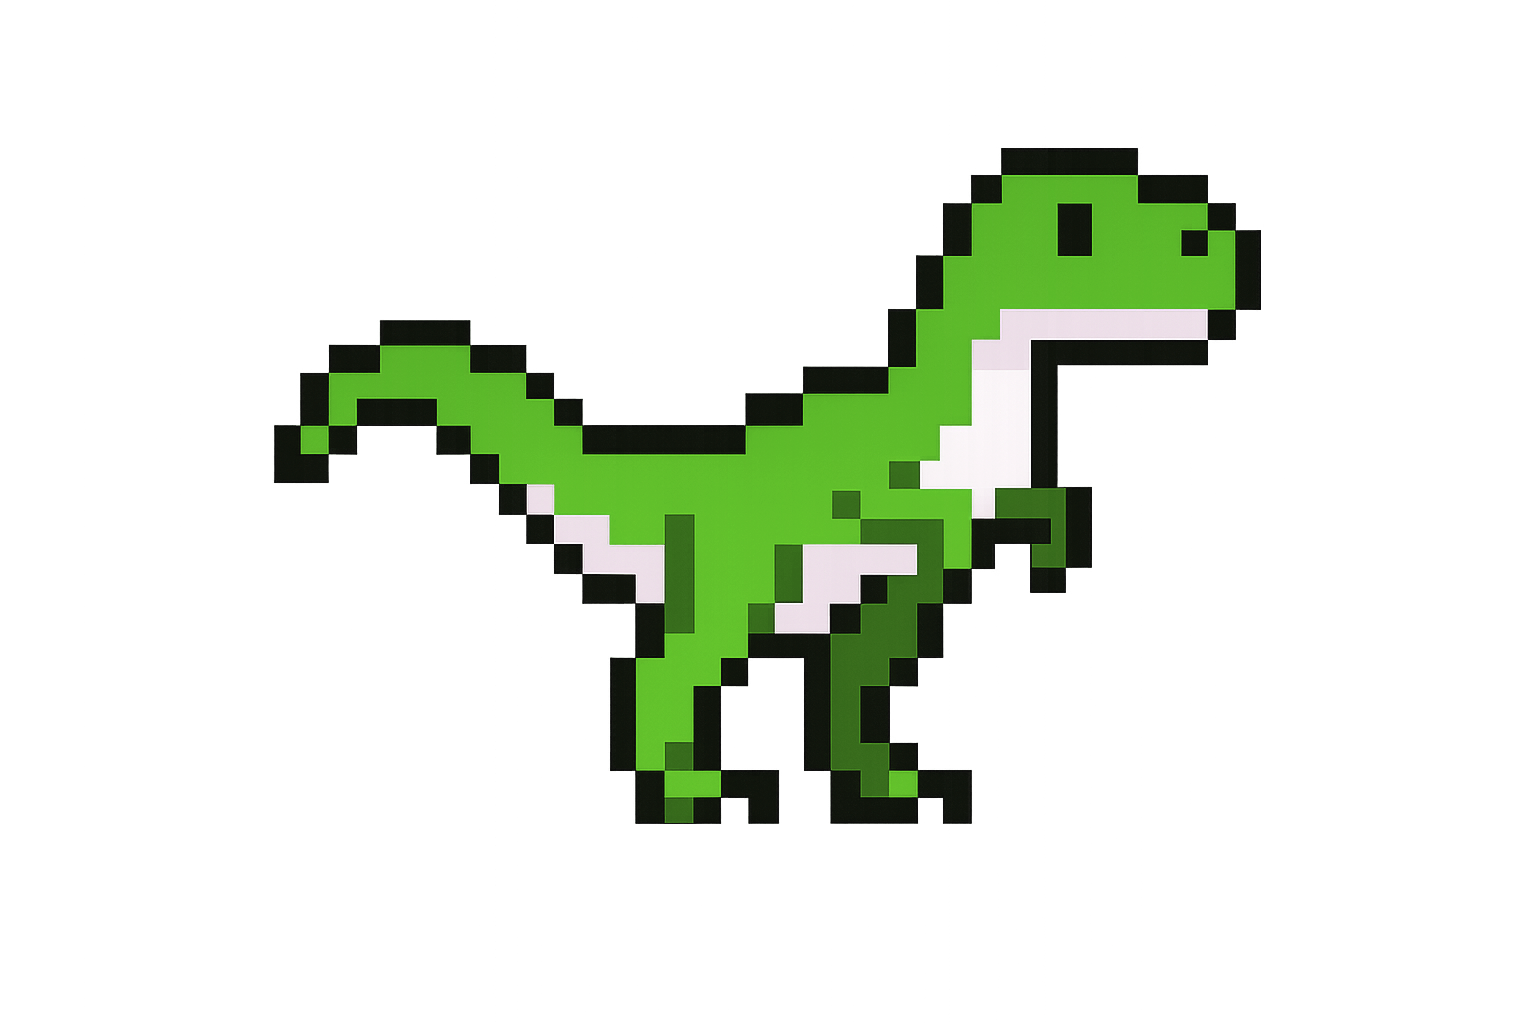
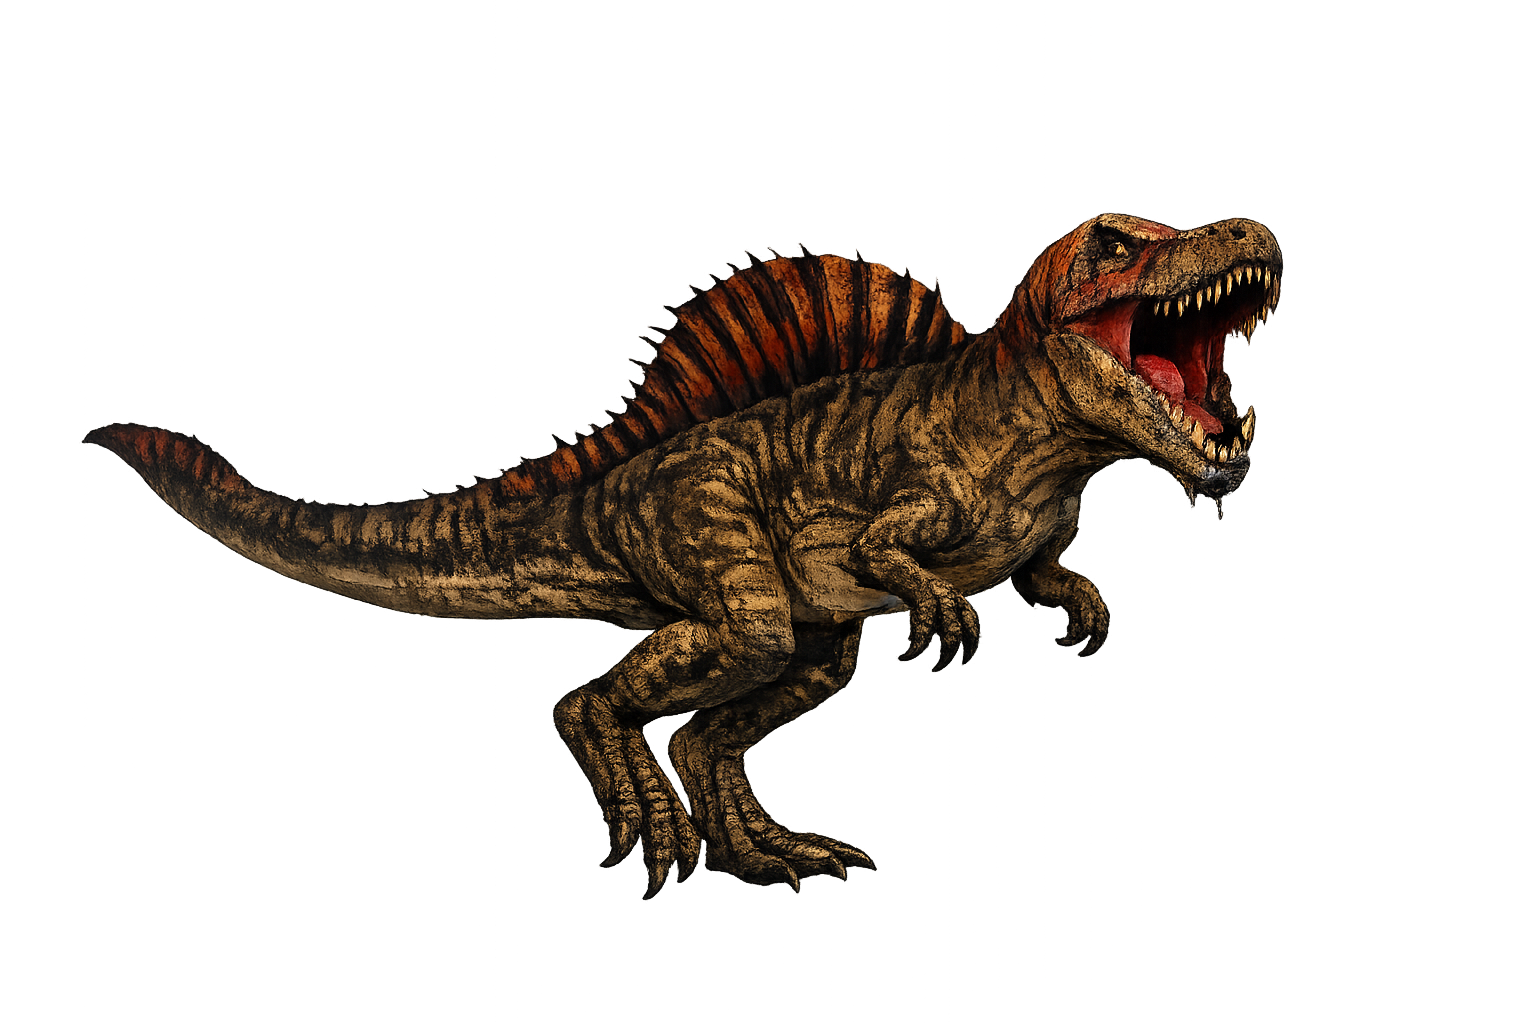
save

Changed region(s): [[0.0625, 0.125, 0.8438, 0.875]]

diff --git a/index.js b/index.js
@@ -19,12 +19,8 @@ mudPatchImg = loadImage('assets/images/mudPatch.png');
 electricFenceImg = loadImage('assets/images/electricFence.png');
 rockImg = loadImage('assets/images/rock.png');
 jeepImg=loadImage('assets/images/pixelAbandonedJeep.png');
-
-// these obstacles haven't been passed yet
-electricFenceSprite.passed = false;
-rockSprite.passed = false;
-jeepSprite.passed = false;
-
+ddinoImg=loadImage('assets/images/deaddino.png');
+finImg = loadImage('assets/images/Finishgate.png');
 }
 
 
@@ -34,7 +30,7 @@ function setup() {
     console.log("setup:");
     createCanvas(windowWidth -10,windowHeight -10);
     world.gravity.y = 10;
-    ground = new Sprite(2000, height - 50, 4000, 200, 'static'); // 'static' ground does not move due to gravity
+    ground = new Sprite(2000, height - 50, 15000, 200, 'static'); // 'static' ground does not move due to gravity
     ground.color = '#839b5d';
 
 
@@ -42,16 +38,18 @@ function setup() {
     // Dynamics: the sprite uses full physics (affected by gravity, can move, fall, collide with objects)
     dinoOneSprite = new Sprite(100, height - 150, 200, 100);
     dinoOneSprite.image = dinoOneImage;
-    dinoOneSprite.scale = 0.2;
-    dinoOneSprite.vel.x = 1; // slower speed
+    dinoOneSprite.scale = 0.3;
+    dinoOneSprite.vel.x = 2; // slower speed
     dinoOneSprite.collider = 'dynamic';
+    dinoOneSprite.rotationLock = true; // prevents spinning
    
-    // creating personOneSprite sprite and attaching image
-    personOneSprite = new Sprite(300, height - 150, 200, 100);
+    // creating personOneSprite sprite and attaching images
+    personOneSprite = new Sprite(500, height - 150, 60, 100);
     personOneSprite.image = personOneFrontImg;
     personOneSprite.scale = 0.2;
-    personOneSprite.vel.x = 4; // faster than dino
+    personOneSprite.vel.x = 5; // faster than dino
     personOneSprite.collider = 'dynamic';
+    personOneSprite.rotationLock = true; // prevents spinning
    
     //boolean variable keeping track of wehter the player has moved or not 
     // so the dinosaur does not start running until the player moves 
@@ -61,38 +59,60 @@ function setup() {
     obstacleGroup = new Group();
 
     //creating electricFenceSprite and attaching image
-    electricFenceSprite = new Sprite(900, height - 150, 200, 100);
+    electricFenceSprite = new Sprite(1500, height - 150, 200, 100);
     electricFenceSprite.image = electricFenceImg;
-    electricFenceSprite.scale = 0.2;
+    electricFenceSprite.scale = 0.25;
     electricFenceSprite.collider = 'static';
-    obstacleGroup.add(electricFenceSprite); 
+    obstacleGroup.add(electricFenceSprite);
+    electricFenceSprite.passed = false; 
  
     //creating rockSprite and attaching image
-    rockSprite = new Sprite(1500, height - 150, 200, 100);
+    rockSprite = new Sprite(2500, height - 150, 200, 100);
     rockSprite.image = rockImg;
-    rockSprite.scale = 0.2;
+    rockSprite.scale = 0.25;
     rockSprite.collider = 'static';
     obstacleGroup.add(rockSprite);
+    rockSprite.passed = false;
    
-    /*//creating the mudPatchSprite and attaching image
-    mudPatchSprite = new Sprite(2000, height - 150, 100, 100);
+    //creating the mudPatchSprite and attaching image
+    mudPatchSprite = new Sprite(3500, height - 100, 100, 100);
     mudPatchSprite.image = mudPatchImg;
-    mudPatchSprite.scale = 0.2;
+    mudPatchSprite.scale = 0.25;
     mudPatchSprite.collider = 'static'; // so sprite doesn't collide with ground
-    obstacleGroup.add(mudPatchSprite);   */
+    obstacleGroup.add(mudPatchSprite);   
+    mudPatchSprite.passed = false;
 
     //creating abandoned jeep and attaching image 
-    jeepSprite = new Sprite(3000, height - 150, 200, 100);
+    jeepSprite = new Sprite(4500, height - 150, 200, 100);
     jeepSprite.image = jeepImg;
-    jeepSprite.scale = 0.2;
+    jeepSprite.scale = 0.25;
     jeepSprite.collider = 'static';
     obstacleGroup.add(jeepSprite);
+    jeepSprite.passed = false;
+
+    //creating ddinoSprite and attaching image 
+    ddinoSprite = new Sprite(5500, height - 150, 200, 100);
+    ddinoSprite.image = ddinoImg;
+    ddinoSprite.scale = 0.25;
+    ddinoSprite.collider = 'static';
+    obstacleGroup.add(ddinoSprite);
+    ddinoSprite.passed = false;
+
+    //creating finSprite and attaching image 
+    finSprite = new Sprite(6500, height - 150, 200, 100);
+    finSprite.image = finImg;
+    finSprite.scale = 0.5;
+    finSprite.collider = 'static';
+    //obstacleGroup.add(finSprite);
+    finSprite.passed = false;
 
 }
 
 
 /*******************************************************/
 let score = 0; // declared outside of draw so score doesn't reset every frame
+let scorePopup = "";
+let scorePopupTimer = 0;
 function draw() 
 {
     background('#c8f2ff');
@@ -145,48 +165,74 @@ function draw()
    
     for (let obs of obstacleGroup) 
     {
-     /*if (dinoOneSprite.collides(obs))
-        {
-          obs.remove();
-        }*/
-
-     if (personOneSprite.collides(obs)) 
+        //  If player touches obstacle before passing → game over
+        
+        if (!obs.passed && personOneSprite.colliding(obs)) 
         {
         noLoop() //to stop the game
+        dinoOneSprite.remove();
         personOneSprite.remove(); // change with boom
         textSize (60);
-        text ('game over\n Your score is:'+ score, width/2-150, height/2);
+        text ('game over\n you collided with obstacle\n Your total score is:'+ score, width/3, height/3); //working direct hit
+        return;
         }
 
-     if (dinoOneSprite.collides(personOneSprite)) 
+
+        if (personOneSprite.collides(obs) && personOneSprite.x < obs.x+ obs.w/2) 
+        {text ('this is new:'+ score, width/3, height/3); }
+
+        if (!obs.passed && personOneSprite.x > obs.x+ obs.w/2) 
         {
-        noLoop() //to stop the game
-        textSize (60);
-        text ('game over\n Your score is:'+ score, width/2-150, height/2);
+        obs.passed = true;
+        score=score+10;   
+        //text 
+        scorePopup = "+10";
+        scorePopupTimer = 60;
+        }   
 
+        if (dinoOneSprite.collides(obs))
+        {
+          obs.remove();
         }
-
-     if (personOneSprite.overlaps(obs)) 
+        
+        /*if (personOneSprite.collides(obs)) 
         {
         noLoop() //to stop the game
         //personOneSprite.remove(); // change with boom
         textSize (60);
-        text ('game over\n Your score is:'+ score, width/2-150, height/2);
+        text ('game over\n you have hit an obstacle\n Your total score is:'+ score, width/3, height/3);
+        return;
+        }*/
+      
+
+        if (dinoOneSprite.collides(personOneSprite)) 
+        {
+        noLoop() //to stop the game
+        textSize (60);
+        text ('game over\n you have been hit by dino\n Your total score is:'+ score, width/3, height/3);
+
         }
 
-
-
-     if (personOneSprite.x > obs.x) 
+        if (scorePopupTimer > 0)
         {
-        obs.passed = true;
-        obs.remove()
-        textSize (60);
-        score=score+10;
-        console.log (score);
+        scorePopupTimer--;
+
+        textSize(40);
+        fill(0);
+        text(scorePopup, width/2-20, height/2-80);
         }
     }
 
-
+    if (personOneSprite.colliding(finSprite)) 
+        {
+        dinoOneSprite.remove();
+        //saving score so that user can see final score on ending page 
+        localStorage.setItem("finalScore", score);
+        window.location.href="game_end.html";
+        //textSize (60);
+        //text ('You Win \n Your final score is:'+ score, width/2-150, height/2);
+        window.location.href= "game_end.html";
+        }
 }
 /*******************************************************/
 //dinoOneSprite.collides(player, gameEnd);

diff --git a/index.html b/index.html
@@ -1,25 +1,36 @@
 <!DOCTYPE html>
 <html lang="en">
 <head>
-  <title>Index.html</title>
+  <title>index.html</title>
   <meta charset="UTF-8">
   <meta name="viewport" content="width=device-width, initial-scale=1.0">
   
   <!-- stylesheets *******************************************-->
 <link rel="stylesheet" href="style.css">  
 
-<!-- P5.js & P5.play ***************************************-->
-  <script src="https://cdnjs.cloudflare.com/ajax/libs/p5.js/1.8.0/p5.js" 
-  integrity="sha512-bzpp8klYroR6PFgL3RJ+VkvY5hJna7Zd38OA56peUDHSNQpSiN9lDQVnMYtcw7hoAVhbR6mAOdH+ymzg1o+G0A==" crossorigin="anonymous" referrerpolicy="no-referrer"></script>
-  <script src="https://cdnjs.cloudflare.com/ajax/libs/p5.js/1.8.0/addons/p5.sound.js" integrity="sha512-TU9AWtV5uUZPX8dbBAH8NQF1tSdigPRRT82vllAQ1Ke28puiqLA6ZVKxtUGlgrH6yWFnkKy+sE6luNEGH9ar0A=="crossorigin="anonymous" referrerpolicy="no-referrer"></script>
-  <script src="https://p5play.org/v3/planck.min.js"></script>
-  <script src="https://p5play.org/v3/p5play.js"></script>
+<!-- intro page ***************************************-->
+
 
 </head>
 <body>
+<header>
+    <h1 style="color:white;">
+        Jurassic Chase 
+    </h1>
+
+    <h2 style="color:white;">
+        Run from the dinasaur for as long as you can!
+    </h2>
+     <button onclick="location.href='game.html'">Play</button>
+</header>
+
+<body style="background-image: url('assets/images/Pixelated\ game\ start.png');
+    background-size:cover;
+    background-repeat: no-repeat;
+    background-position: center;">
 
   <!--js page *******************************************-->
-  <!--<button onclick="location.href='index.html'">play</button>-->
-  <script src="index.js"></script>
+   <!--<script src="index.js"></script> -->
   
 </body>
+</html>

diff --git a/game.html b/game.html
@@ -8,24 +8,18 @@
   <!-- stylesheets *******************************************-->
 <link rel="stylesheet" href="style.css">  
 
-<!-- intro page ***************************************-->
-
+<!-- P5.js & P5.play ***************************************-->
+  <script src="https://cdnjs.cloudflare.com/ajax/libs/p5.js/1.8.0/p5.js" 
+  integrity="sha512-bzpp8klYroR6PFgL3RJ+VkvY5hJna7Zd38OA56peUDHSNQpSiN9lDQVnMYtcw7hoAVhbR6mAOdH+ymzg1o+G0A==" crossorigin="anonymous" referrerpolicy="no-referrer"></script>
+  <script src="https://cdnjs.cloudflare.com/ajax/libs/p5.js/1.8.0/addons/p5.sound.js" integrity="sha512-TU9AWtV5uUZPX8dbBAH8NQF1tSdigPRRT82vllAQ1Ke28puiqLA6ZVKxtUGlgrH6yWFnkKy+sE6luNEGH9ar0A=="crossorigin="anonymous" referrerpolicy="no-referrer"></script>
+  <script src="https://p5play.org/v3/planck.min.js"></script>
+  <script src="https://p5play.org/v3/p5play.js"></script>
 
 </head>
 <body>
-<header>
-    <h1>
-        Jurassic Chase
-    </h1>
-
-    <h2>
-        Run from the dinasaur for as long as you can!
-    </h2>
-     <button onclick="location.href='index.html'">Play</button>
-</header>
 
   <!--js page *******************************************-->
-   <!--<script src="index.js"></script>
+  <!--<button onclick="location.href='game.html'">play</button>-->
+  <script src="index.js"></script>
   
 </body>
-</html>

diff --git a/game_end.html b/game_end.html
@@ -1,0 +1,38 @@
+<!DOCTYPE html>
+<html lang="en">
+<head>
+  <title>game_end.html</title>
+  <meta charset="UTF-8">
+  <meta name="viewport" content="width=device-width, initial-scale=1.0">
+  
+  <!-- stylesheets *******************************************-->
+<link rel="stylesheet" href="style.css">  
+
+<!-- intro page ***************************************-->
+
+
+</head>
+<body>
+<header>
+    <h1>
+        You Win!
+    </h1 style="color:white;>
+        Your final score is:
+    <h2 style="color:white; id="scoreText"></h2>
+     <!--Getting the saved score from index.js and putting the score in the header with the id "scoreText"-->
+    <script>
+        let finalScore = localStorage.getItem("finalScore")
+        document.getElementById("scoreText").textContent = finalScore; 
+    </script>
+
+     <button onclick="location.href='index.html'">Play again</button>
+</header>
+<body style="background-image: url('assets/images/Dinosaur victory sce.png');
+    background-size:cover;
+    background-repeat: no-repeat;
+    background-position: center;">
+  <!--js page *******************************************-->
+   <!--<script src="index.js"></script> -->
+  
+</body>
+</html>
